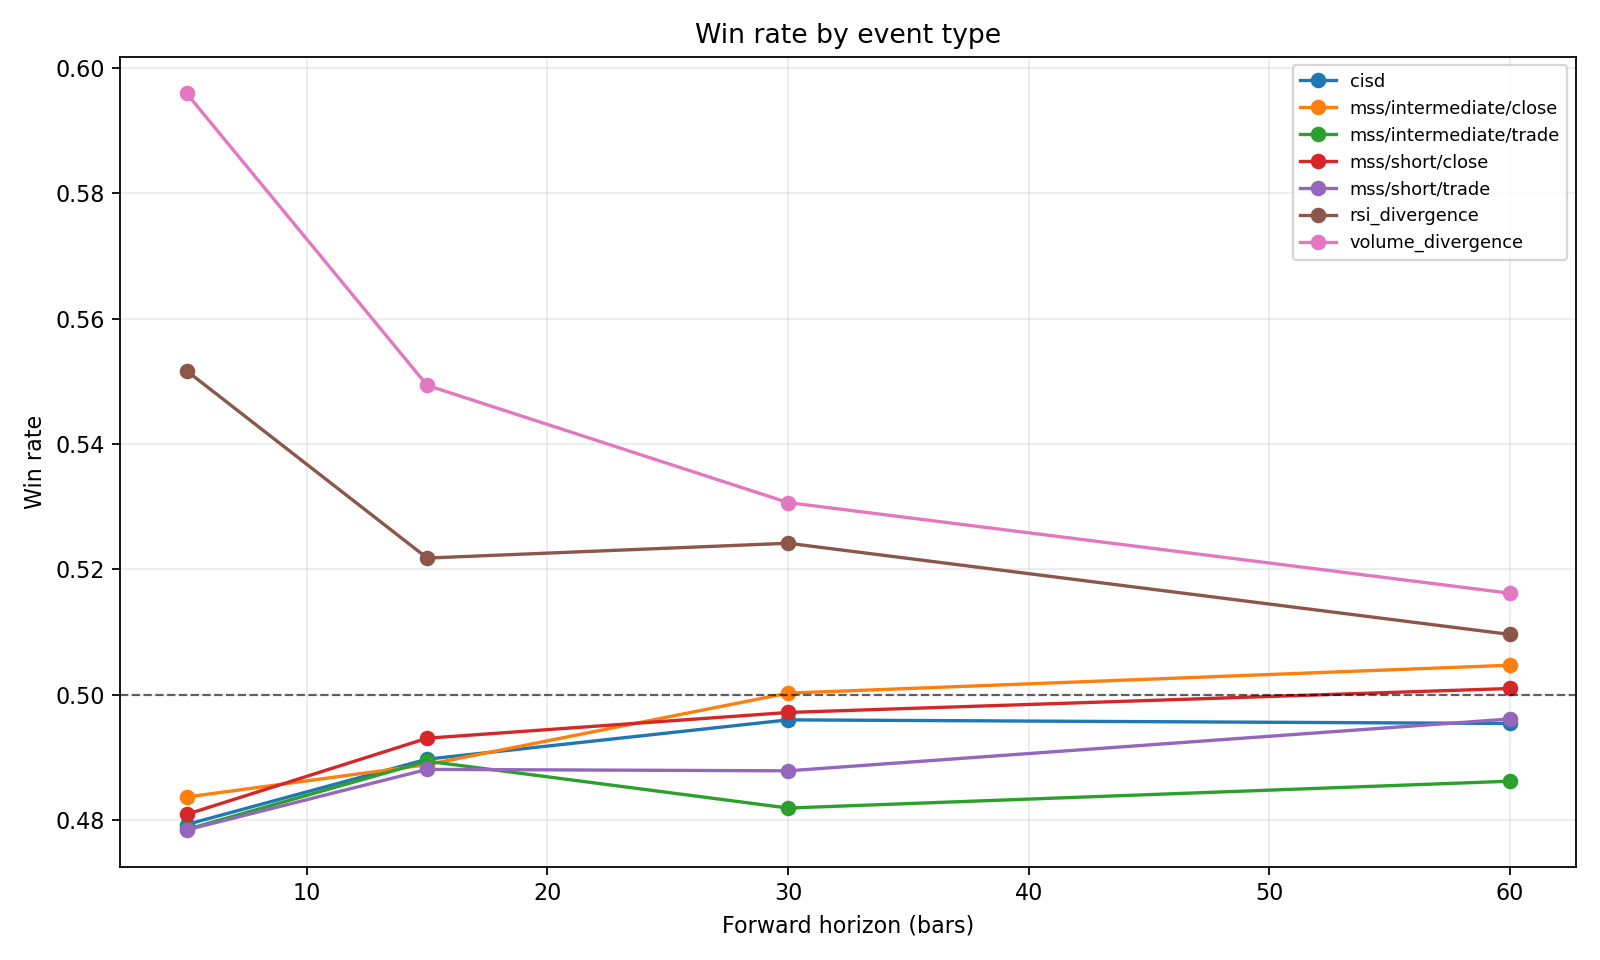
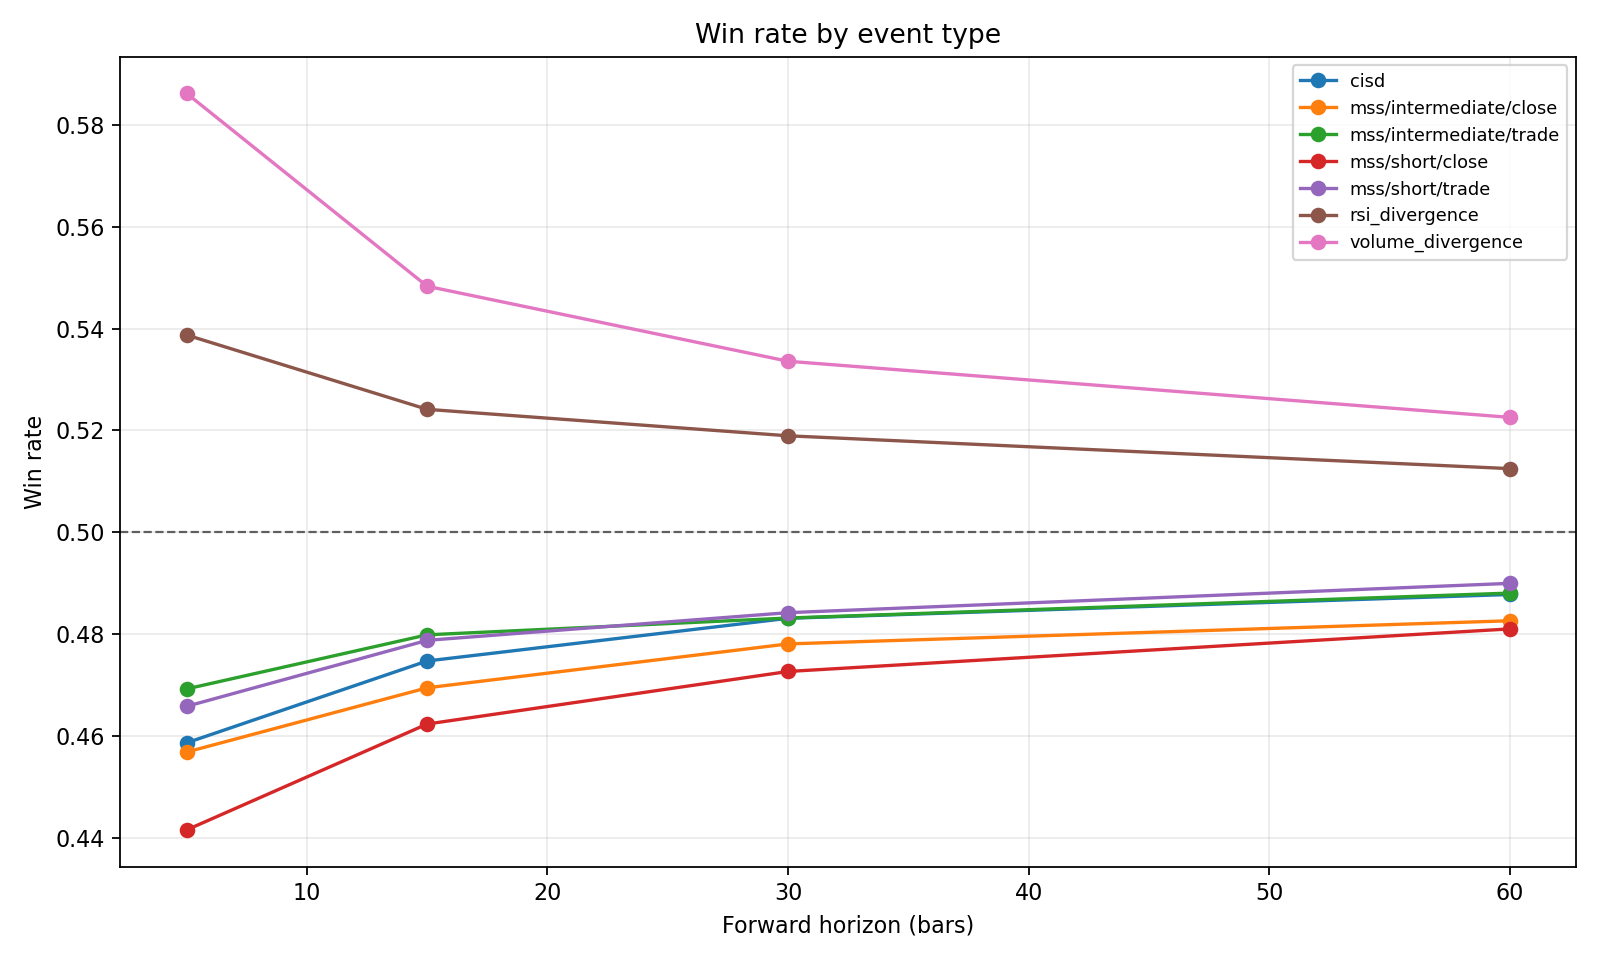
perf: vectorize summaries and add timeframe comparison plots

diff --git a/src/mss_research/features.py b/src/mss_research/features.py
@@ -2,6 +2,7 @@ from __future__ import annotations
 
 from dataclasses import dataclass
 from datetime import datetime, timezone
+import heapq
 from math import isnan
 from typing import Iterable, Any
 from zoneinfo import ZoneInfo
@@ -348,7 +349,8 @@ def detect_cisd_events(df: Any, k: int = 1, min_run_length: int = 3) -> pl.DataF
     up_close[1:] = close[1:] > close[:-1]
 
     ctx = _FrameContext(out, swing_high, swing_low)
-    events: list[dict] = []
+    bullish_setup_schedule: dict[int, list[tuple[int, int, int, int, str, float]]] = {}
+    bearish_setup_schedule: dict[int, list[tuple[int, int, int, int, str, float]]] = {}
 
     for anchor_idx in np.flatnonzero(swing_low):
         avail = low_avail[anchor_idx]
@@ -363,9 +365,7 @@ def detect_cisd_events(df: Any, k: int = 1, min_run_length: int = 3) -> pl.DataF
             "extreme": float(np.max(high[run_start : run_end + 1])),
         }
         for level_type, level in levels.items():
-            event_idx = _first_close_break(close, int(avail), level, direction=1)
-            if event_idx is not None:
-                events.append(_cisd_event_row(ctx, event_idx, 1, int(anchor_idx), run_start, run_end, run_length, level_type, level))
+            bullish_setup_schedule.setdefault(int(avail), []).append((int(anchor_idx), run_start, run_end, run_length, level_type, level))
 
     for anchor_idx in np.flatnonzero(swing_high):
         avail = high_avail[anchor_idx]
@@ -380,9 +380,28 @@ def detect_cisd_events(df: Any, k: int = 1, min_run_length: int = 3) -> pl.DataF
             "extreme": float(np.min(low[run_start : run_end + 1])),
         }
         for level_type, level in levels.items():
-            event_idx = _first_close_break(close, int(avail), level, direction=-1)
-            if event_idx is not None:
-                events.append(_cisd_event_row(ctx, event_idx, -1, int(anchor_idx), run_start, run_end, run_length, level_type, level))
+            bearish_setup_schedule.setdefault(int(avail), []).append((int(anchor_idx), run_start, run_end, run_length, level_type, level))
+
+    events: list[dict] = []
+    bullish_heap: list[tuple[float, int, tuple[int, int, int, int, str, float]]] = []
+    bearish_heap: list[tuple[float, int, tuple[int, int, int, int, str, float]]] = []
+    sequence = 0
+    for i in range(n):
+        for setup in bullish_setup_schedule.get(i, []):
+            heapq.heappush(bullish_heap, (setup[5], sequence, setup))
+            sequence += 1
+        for setup in bearish_setup_schedule.get(i, []):
+            heapq.heappush(bearish_heap, (-setup[5], sequence, setup))
+            sequence += 1
+
+        while bullish_heap and close[i] > bullish_heap[0][0]:
+            _, _, setup = heapq.heappop(bullish_heap)
+            anchor_idx, run_start, run_end, run_length, level_type, level = setup
+            events.append(_cisd_event_row(ctx, i, 1, anchor_idx, run_start, run_end, run_length, level_type, level))
+        while bearish_heap and close[i] < -bearish_heap[0][0]:
+            _, _, setup = heapq.heappop(bearish_heap)
+            anchor_idx, run_start, run_end, run_length, level_type, level = setup
+            events.append(_cisd_event_row(ctx, i, -1, anchor_idx, run_start, run_end, run_length, level_type, level))
 
     events.sort(key=lambda row: (row["event_idx"], row["direction"], row["cisd_break_level_type"], row["cisd_anchor_idx"]))
     return pl.DataFrame(events) if events else pl.DataFrame()
@@ -396,16 +415,6 @@ def _directional_run_start(direction_flags: np.ndarray, anchor_idx: int) -> tupl
         run_start -= 1
     run_start += 1
     return run_start, int(anchor_idx - run_start + 1)
-
-
-def _first_close_break(close: np.ndarray, start_idx: int, level: float, direction: int) -> int | None:
-    if direction == 1:
-        hits = np.flatnonzero(close[start_idx:] > level)
-    else:
-        hits = np.flatnonzero(close[start_idx:] < level)
-    if len(hits) == 0:
-        return None
-    return int(start_idx + hits[0])
 
 
 class _FrameContext:
@@ -674,6 +683,28 @@ def summarize_events(events: Any, horizons: Iterable[int], bootstrap_iterations:
         ]
         if c in events_pl.columns
     ]
+    if bootstrap_iterations <= 0:
+        summaries = []
+        for horizon in horizons:
+            aligned_col = f"aligned_return_{horizon}"
+            win_col = f"win_{horizon}"
+            summaries.append(
+                events_pl.group_by(group_cols)
+                .agg(
+                    pl.col(aligned_col).drop_nans().drop_nulls().len().alias("n"),
+                    pl.col(win_col).cast(pl.Float64).drop_nans().drop_nulls().mean().alias("win_rate"),
+                    pl.lit(np.nan).alias("win_rate_ci_low"),
+                    pl.lit(np.nan).alias("win_rate_ci_high"),
+                    pl.col(aligned_col).drop_nans().drop_nulls().mean().alias("mean_aligned_return"),
+                    pl.lit(np.nan).alias("mean_aligned_return_ci_low"),
+                    pl.lit(np.nan).alias("mean_aligned_return_ci_high"),
+                    pl.col(aligned_col).drop_nans().drop_nulls().quantile(0.25, interpolation="linear").alias("p25_aligned_return"),
+                    pl.col(aligned_col).drop_nans().drop_nulls().median().alias("median_aligned_return"),
+                    pl.col(aligned_col).drop_nans().drop_nulls().quantile(0.75, interpolation="linear").alias("p75_aligned_return"),
+                )
+                .with_columns(pl.lit(int(horizon)).alias("horizon"))
+            )
+        return pl.concat(summaries, how="diagonal_relaxed") if summaries else pl.DataFrame()
     rows = []
     index_cache: dict[int, np.ndarray] = {}
     for part in events_pl.partition_by(group_cols, maintain_order=True, include_key=True, as_dict=False):

diff --git a/src/mss_research/plots.py b/src/mss_research/plots.py
@@ -74,6 +74,37 @@ def create_summary_plots(summary: pd.DataFrame, out_dir: Path | str) -> list[Pat
         )
     )
     paths.append(_bar_plot(data, out_path / "sample_size_by_event_type.png"))
+    if "timeframe" in data.columns:
+        paths.append(
+            _timeframe_event_plot(
+                data,
+                "win_rate",
+                "Win rate",
+                out_path / "win_rate_by_timeframe_and_event_type.png",
+                baseline=0.5,
+            )
+        )
+        paths.append(
+            _timeframe_event_plot(
+                data,
+                "mean_aligned_return",
+                "Mean aligned return",
+                out_path / "mean_return_by_timeframe_and_event_type.png",
+                baseline=0.0,
+            )
+        )
+        if "p75_aligned_return" in data.columns:
+            paths.append(
+                _timeframe_event_plot(
+                    data,
+                    "p75_aligned_return",
+                    "P75 aligned return",
+                    out_path / "p75_return_by_timeframe_and_event_type.png",
+                    baseline=0.0,
+                )
+            )
+            if "cisd_break_level_type" in data.columns:
+                paths.append(_cisd_timeframe_p75_plot(data, out_path / "cisd_p75_return_by_timeframe.png"))
 
     if "momentum_bucket" in data.columns:
         paths.append(_bucket_plot(data, "momentum_bucket", "win_rate", out_path / "win_rate_by_momentum_bucket.png"))
@@ -124,6 +155,76 @@ def _bar_plot(data: pd.DataFrame, path: Path) -> Path:
     ax.set_ylabel("Summary sample count")
     ax.set_title("Sample size by event type")
     ax.grid(True, axis="y", alpha=0.25)
+    fig.tight_layout()
+    fig.savefig(path, dpi=160)
+    plt.close(fig)
+    return path
+
+
+def _weighted_by_timeframe_event(summary: pd.DataFrame, value_col: str) -> pd.DataFrame:
+    rows = []
+    for (timeframe, event_label, horizon), group in summary.groupby(["timeframe", "event_label", "horizon"], dropna=False):
+        weights = group["n"].astype(float)
+        values = group[value_col].astype(float)
+        if weights.sum() <= 0:
+            continue
+        rows.append(
+            {
+                "timeframe": str(timeframe),
+                "event_label": str(event_label),
+                "plot_label": f"{timeframe}/{event_label}",
+                "horizon": int(horizon),
+                value_col: float((values * weights).sum() / weights.sum()),
+                "n": int(weights.sum()),
+            }
+        )
+    return pd.DataFrame(rows)
+
+
+def _timeframe_event_plot(data: pd.DataFrame, y_col: str, ylabel: str, path: Path, baseline: float) -> Path:
+    plot_df = _weighted_by_timeframe_event(data, y_col)
+    fig, ax = plt.subplots(figsize=(12, 7))
+    for label, group in plot_df.groupby("plot_label"):
+        group = group.sort_values("horizon")
+        ax.plot(group["horizon"], group[y_col], marker="o", label=str(label))
+    ax.axhline(baseline, color="black", linewidth=1, linestyle="--", alpha=0.6)
+    ax.set_xlabel("Forward horizon (bars)")
+    ax.set_ylabel(ylabel)
+    ax.set_title(f"{ylabel} by timeframe and event type")
+    ax.grid(True, alpha=0.25)
+    ax.legend(fontsize=7, ncol=2)
+    fig.tight_layout()
+    fig.savefig(path, dpi=160)
+    plt.close(fig)
+    return path
+
+
+def _cisd_timeframe_p75_plot(data: pd.DataFrame, path: Path) -> Path:
+    filtered = data[data["event_type"] == "cisd"].dropna(subset=["timeframe", "cisd_break_level_type", "p75_aligned_return"])
+    rows = []
+    for (timeframe, level_type, horizon), group in filtered.groupby(["timeframe", "cisd_break_level_type", "horizon"], dropna=False):
+        weights = group["n"].astype(float)
+        if weights.sum() <= 0:
+            continue
+        values = group["p75_aligned_return"].astype(float)
+        rows.append(
+            {
+                "plot_label": f"{timeframe}/{level_type}",
+                "horizon": int(horizon),
+                "p75_aligned_return": float((values * weights).sum() / weights.sum()),
+            }
+        )
+    plot_df = pd.DataFrame(rows)
+    fig, ax = plt.subplots(figsize=(11, 7))
+    for label, group in plot_df.groupby("plot_label"):
+        group = group.sort_values("horizon")
+        ax.plot(group["horizon"], group["p75_aligned_return"], marker="o", label=str(label))
+    ax.axhline(0.0, color="black", linewidth=1, linestyle="--", alpha=0.6)
+    ax.set_xlabel("Forward horizon (bars)")
+    ax.set_ylabel("P75 aligned return")
+    ax.set_title("CISD P75 aligned return by timeframe and break-level type")
+    ax.grid(True, alpha=0.25)
+    ax.legend(fontsize=8)
     fig.tight_layout()
     fig.savefig(path, dpi=160)
     plt.close(fig)

diff --git a/tests/test_features.py b/tests/test_features.py
@@ -168,6 +168,31 @@ def test_summarize_events_includes_p25_and_p75_aligned_returns():
     assert summary_pd.loc[0, "p75_aligned_return"] == pytest.approx(0.0175)
 
 
+def test_summarize_events_bootstrap_zero_uses_vectorized_polars_stats():
+    from mss_research.features import summarize_events
+
+    events = pd.DataFrame(
+        {
+            "instrument": ["ES"] * 4,
+            "timeframe": ["1min", "1min", "5min", "5min"],
+            "event_type": ["cisd"] * 4,
+            "cisd_break_level_type": ["open"] * 4,
+            "aligned_return_5": [-0.02, 0.04, -0.01, 0.03],
+            "win_5": [False, True, False, True],
+        }
+    )
+
+    summary = summarize_events(events, horizons=[5], bootstrap_iterations=0)
+
+    summary_pd = as_pd(summary).sort_values("timeframe").reset_index(drop=True)
+    assert summary_pd["timeframe"].tolist() == ["1min", "5min"]
+    assert summary_pd.loc[0, "n"] == 2
+    assert summary_pd.loc[0, "win_rate"] == pytest.approx(0.5)
+    assert summary_pd.loc[0, "mean_aligned_return"] == pytest.approx(0.01)
+    assert summary_pd.loc[0, "p75_aligned_return"] == pytest.approx(0.025)
+    assert pd.isna(summary_pd.loc[0, "win_rate_ci_low"])
+
+
 def test_bootstrap_ci_preserves_seeded_sampling_sequence():
     from mss_research.features import bootstrap_ci
 

diff --git a/tests/test_plots.py b/tests/test_plots.py
@@ -201,3 +201,21 @@ def test_summary_plots_include_cisd_break_level_type_chart(tmp_path):
     names = {p.name for p in paths}
 
     assert "win_rate_by_cisd_break_level_type.png" in names
+
+
+def test_summary_plots_include_timeframe_comparison_charts(tmp_path):
+    summary = pd.DataFrame(
+        [
+            {"timeframe": "1min", "event_type": "cisd", "cisd_break_level_type": "open", "horizon": 5, "n": 100, "win_rate": 0.51, "mean_aligned_return": 0.001, "p75_aligned_return": 0.002},
+            {"timeframe": "5min", "event_type": "cisd", "cisd_break_level_type": "open", "horizon": 5, "n": 80, "win_rate": 0.49, "mean_aligned_return": -0.001, "p75_aligned_return": 0.003},
+            {"timeframe": "15min", "event_type": "mss", "swing_tier": "short", "closed_through": True, "horizon": 5, "n": 60, "win_rate": 0.47, "mean_aligned_return": -0.002, "p75_aligned_return": 0.004},
+        ]
+    )
+
+    paths = create_summary_plots(summary, tmp_path)
+    names = {p.name for p in paths}
+
+    assert "win_rate_by_timeframe_and_event_type.png" in names
+    assert "mean_return_by_timeframe_and_event_type.png" in names
+    assert "p75_return_by_timeframe_and_event_type.png" in names
+    assert "cisd_p75_return_by_timeframe.png" in names

diff --git a/README.md b/README.md
@@ -66,6 +66,8 @@ Useful faster run:
 PYTHONPATH=src python3 -m mss_research run --data data --out outputs --timeframes 15min --horizons 5,15,30,60 --bootstrap 100 --plots
 ```
 
+For all-timeframe comparisons on memory-limited machines, run each timeframe separately and combine the summary CSVs. Use `--bootstrap 0` for fast vectorized Polars summaries when confidence intervals are not needed.
+
 Outputs:
 
 ```text
@@ -82,9 +84,17 @@ These figures are generated from the current local summary output and committed 
 
 ![Mean aligned return by event type](outputs/figures/mean_return_by_event_type.png)
 
+![Win rate by timeframe and event type](outputs/figures/win_rate_by_timeframe_and_event_type.png)
+
+![Mean aligned return by timeframe and event type](outputs/figures/mean_return_by_timeframe_and_event_type.png)
+
+![P75 aligned return by timeframe and event type](outputs/figures/p75_return_by_timeframe_and_event_type.png)
+
 ![MSS aligned return distribution](outputs/figures/mss_aligned_return_distribution.png)
 
 ![CISD aligned return distribution](outputs/figures/cisd_aligned_return_distribution.png)
+
+![CISD P75 aligned return by timeframe](outputs/figures/cisd_p75_return_by_timeframe.png)
 
 ![Sample size by event type](outputs/figures/sample_size_by_event_type.png)
 
@@ -114,7 +124,7 @@ These figures are generated from the current local summary output and committed 
 PYTHONPATH=src python3 -m mss_research plots --summary outputs/summary.csv --out outputs/figures
 ```
 
-Graphs include win rate, mean aligned return, MSS and CISD P25/mean/P75 aligned-return distributions, sample size, break-candle momentum/volume buckets, MSS-leg RSI/volume buckets, right-leg mean RSI, right-vs-left RSI delta, right-vs-left relative-volume delta, CISD break-level type, time-of-day sessions, and session-by-leg-volume heatmaps.
+Graphs include win rate, mean aligned return, timeframe-by-event comparisons, P75 aligned-return comparisons, MSS and CISD P25/mean/P75 aligned-return distributions, sample size, break-candle momentum/volume buckets, MSS-leg RSI/volume buckets, right-leg mean RSI, right-vs-left RSI delta, right-vs-left relative-volume delta, CISD break-level type, time-of-day sessions, and session-by-leg-volume heatmaps.
 
 ## Tests
 

diff --git a/AGENTS.md b/AGENTS.md
@@ -58,7 +58,7 @@ Tests:
 python3 -m pytest -q
 ```
 
-Latest verified test state when this file was written: `29 passed`.
+Latest verified test state when this file was written: `32 passed`.
 
 ## Market structure definitions
 
@@ -276,8 +276,12 @@ Tracked plots in `outputs/figures/`:
 
 - `win_rate_by_event_type.png`
 - `mean_return_by_event_type.png`
+- `win_rate_by_timeframe_and_event_type.png`
+- `mean_return_by_timeframe_and_event_type.png`
+- `p75_return_by_timeframe_and_event_type.png`
 - `mss_aligned_return_distribution.png`
 - `cisd_aligned_return_distribution.png`
+- `cisd_p75_return_by_timeframe.png`
 - `sample_size_by_event_type.png`
 - `win_rate_by_momentum_bucket.png`
 - `win_rate_by_relative_volume_bucket.png`
@@ -300,6 +304,8 @@ Tracked plots in `outputs/figures/`:
 ## Implementation notes for future agents
 
 - Use TDD for feature changes. Tests live in `tests/test_features.py` and `tests/test_plots.py`.
+- For all-timeframe comparisons on this machine, run 1min/5min/15min separately and combine summaries; a single all-timeframe run can exceed memory.
+- Use `--bootstrap 0` for fast vectorized Polars summaries when confidence intervals are not needed.
 - Do not commit raw data or large output tables.
 - It is OK to commit small PNG figures under `outputs/figures/`.
 - If changing MSS rules, add targeted synthetic fixtures first. The most important rule is that the broken level must be left of the relevant extremity.
